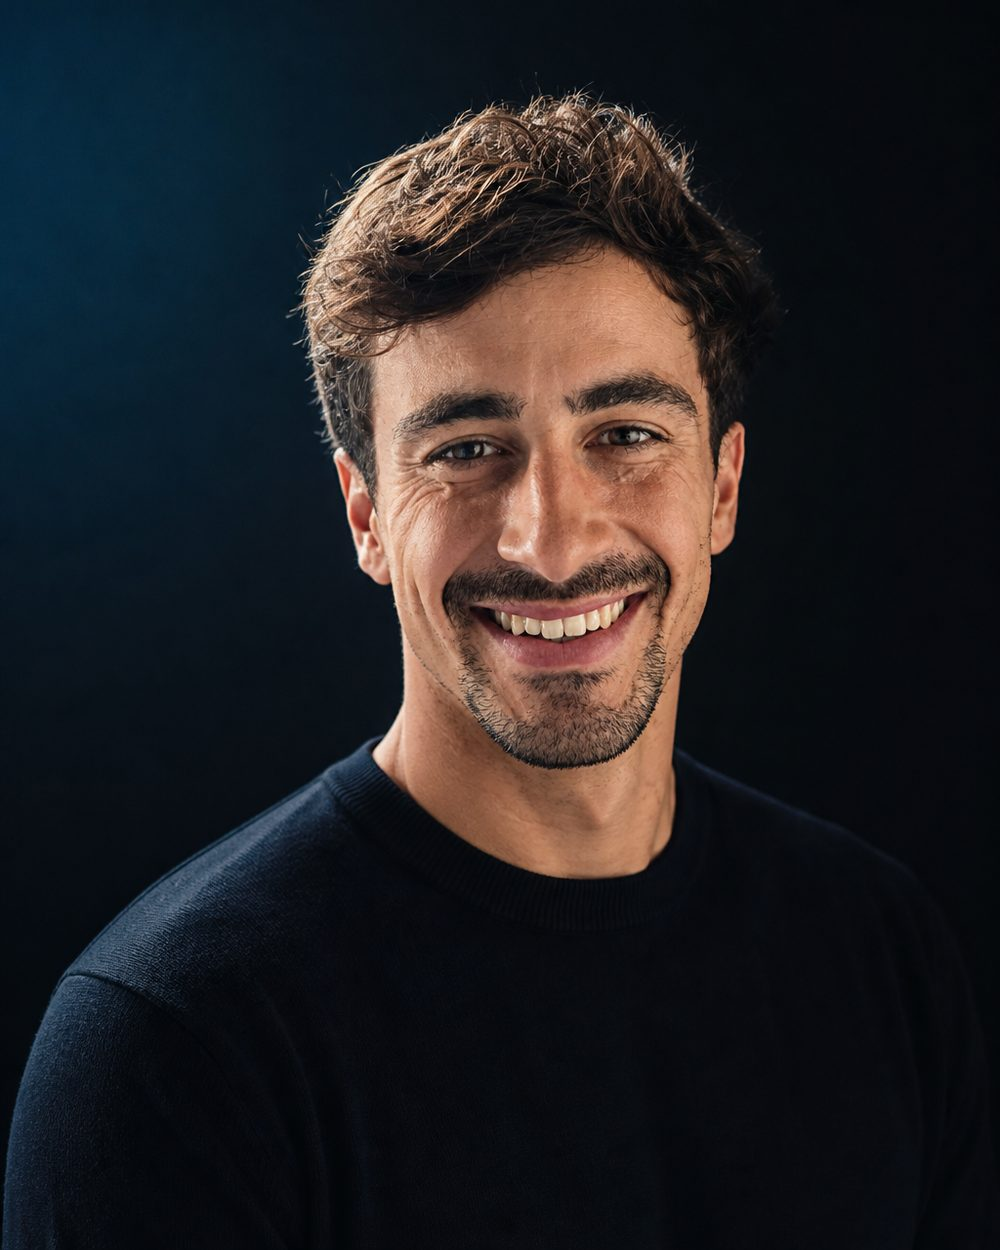
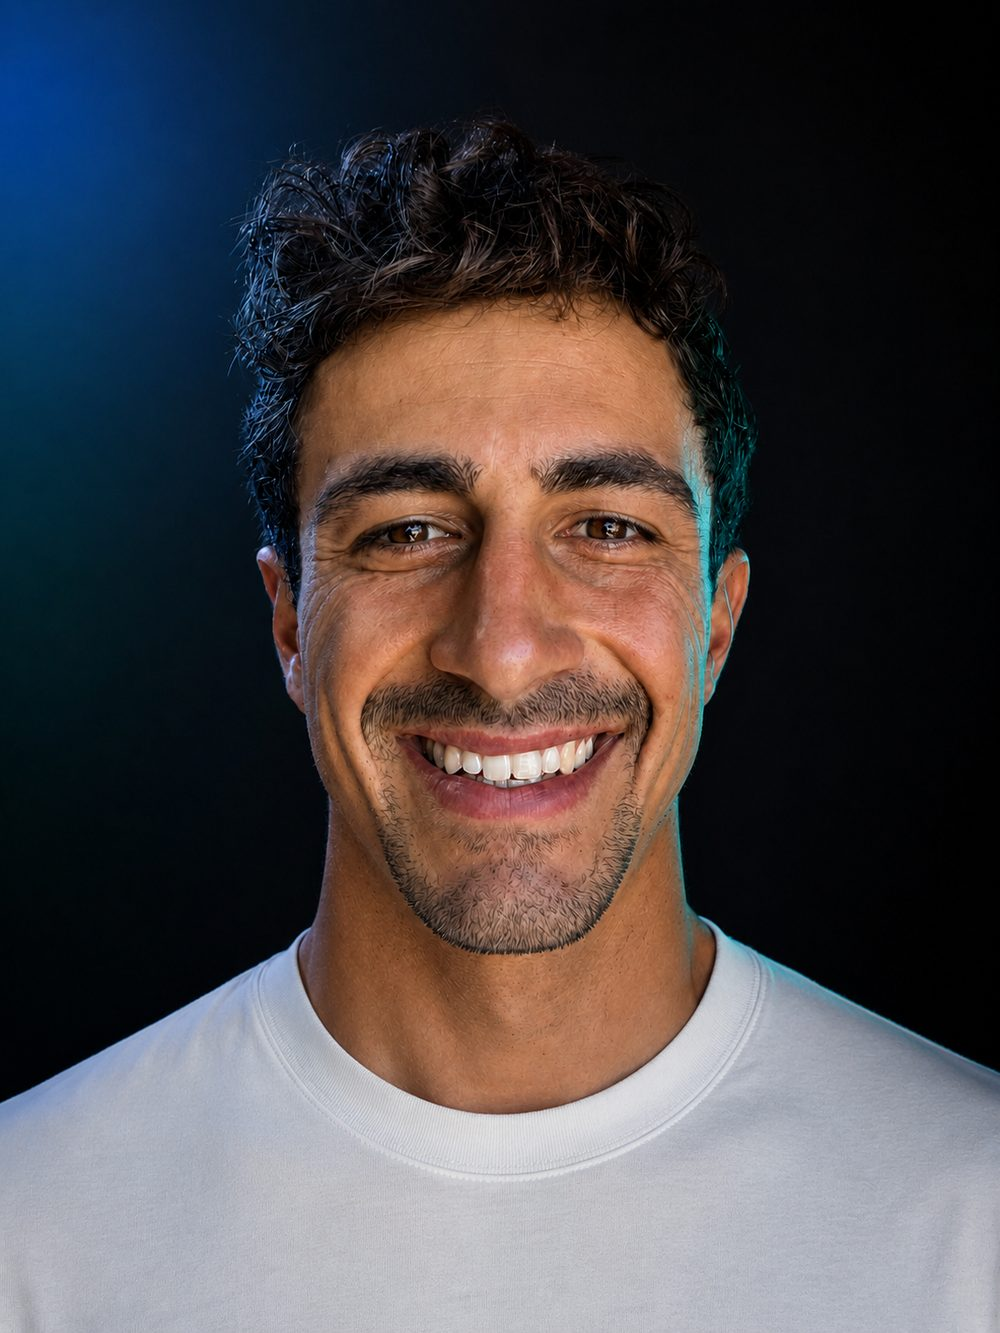
Portrait ausgetauscht (neues ChatGPT-Bild, weisses Shirt) + Bildmasse angepasst

diff --git a/index.html b/index.html
@@ -299,7 +299,7 @@
         </div>
       </div>
       <div class="hero-media">
-        <img src="assets/images/moritz.jpg" alt="Moritz Buch – Freelance Performance Marketing & E-Commerce" width="1000" height="1250" />
+        <img src="assets/images/moritz.jpg" alt="Moritz Buch – Freelance Performance Marketing & E-Commerce" width="1000" height="1333" />
       </div>
     </div>
   </header>
@@ -431,7 +431,7 @@
           <p data-i18n="about.p4">Genauso wichtig: <strong>Teams führen und entwickeln</strong>. Ob als disziplinarische Führungskraft oder als <strong>Sparringspartner</strong> für Gründer und Inhouse-Teams – ich befähige Menschen, Performance Marketing selbst zu beherrschen, statt Abhängigkeiten zu schaffen. Mein Ansatz ist dabei durchgängig <strong>AI-first</strong>: KI für schnellere Creatives, automatisierte Prozesse und datenbasierte Entscheidungen.</p>
         </div>
         <div class="about-side">
-          <div class="about-photo"><img src="assets/images/moritz.jpg" alt="Moritz Buch" loading="lazy" width="1000" height="1250" /></div>
+          <div class="about-photo"><img src="assets/images/moritz.jpg" alt="Moritz Buch" loading="lazy" width="1000" height="1333" /></div>
           <div class="timeline">
             <h3 class="tl-title" data-i18n="tl.title">Meine Schwerpunkte</h3>
             <div class="tl-item"><span class="tl-mark">›</span><span class="tl-role" data-i18n="tl.role1"><b>Mehrjährige Führung als Teamlead</b><span>Social, Performance &amp; CRM</span></span></div>